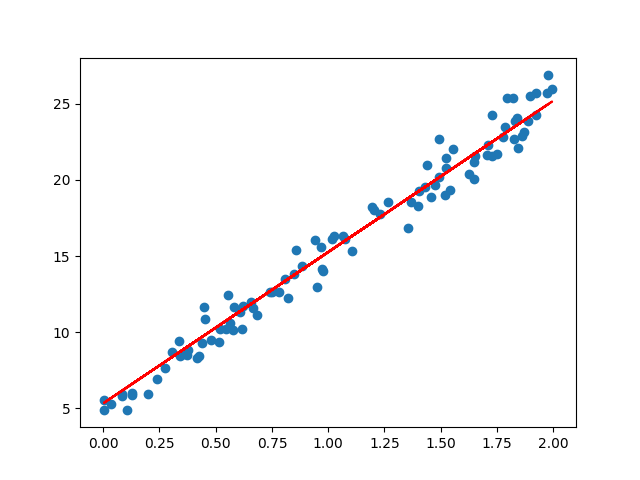
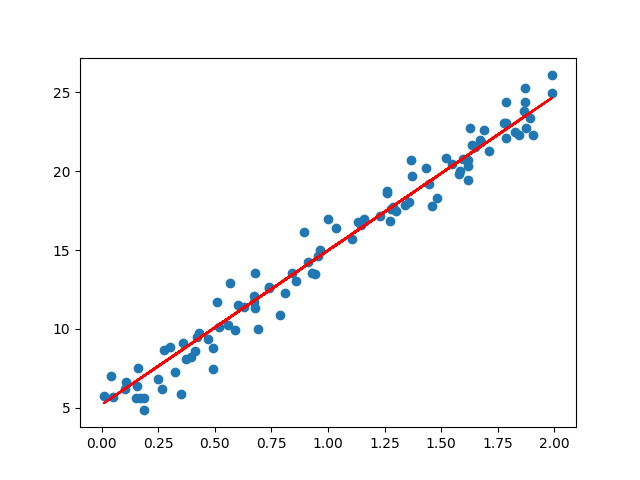
:penguin: Validate test_loss and test_train

diff --git a/main.py b/main.py
@@ -18,7 +18,7 @@ def model(W, feed_dict={}):
     return np.dot(np.Placeholder(x=feed_dict['x']), np.Variable(W=W))
 
 def known_model(feed_dict={}):
-    return np.dot(np.Placeholder(x=feed_dict['x']), np.Constant([2, 3]))
+    return np.dot(np.Placeholder(x=feed_dict['x']), np.Constant([[2],[3]]))
 
 # def mse(feed_dict={}):
     # diff = np.subtract(np.Placeholder(predicted_y=feed_dict['predicted_y']), np.Placeholder(true_y=feed_dict['true_y']))
@@ -73,36 +73,32 @@ def test_known_model():
     print(grad(known_model, 'x')(feed_dict={'x': x}))
 
 def test_loss():
-    data_size = 10
-    x = np.linspace(-7, 7, data_size)
-    x = _np.c_[_np.ones(data_size), x]
-    noise = _np.random.random((data_size))
-    theta = _np.array([2, 5])
-    y = _np.dot(x, theta) + noise
-    predict = value(known_model)(feed_dict={'x': x})
+    data_size = 100
+    X = 2 * _np.random.rand(data_size,1)
+    aug_X = _np.c_[_np.ones(data_size), X]
+    theta = _np.array([[5], [10]])
+    Y = aug_X @ theta + _np.random.randn(data_size,1)
+    predict = value(known_model)(feed_dict={'x': aug_X})
     print(predict)
-    v, l = value_and_grad(mse, 'predicted_y')(feed_dict={'predicted_y': predict, 'true_y': y})
+    v, l = value_and_grad(mse, 'predicted_y')(feed_dict={'predicted_y': predict, 'true_y': Y})
     print(v, l)
 
 def test_train():
-    data_size = 10
-    x = np.linspace(-7, 7, data_size)
-    x = _np.c_[_np.ones(data_size), x]
-    
-    noise = _np.random.random((data_size))
-    theta = _np.array([2, 5])
-    y = _np.dot(x, theta) + noise
-    y = y[:, None]
+    data_size = 100
+    X = 2 * _np.random.rand(data_size,1)
+    aug_X = _np.c_[_np.ones(data_size), X]
+    theta = _np.array([[5], [10]])
+    Y = aug_X @ theta + _np.random.randn(data_size,1)
 
     W = _np.random.random((2, 1))    
-    predicted_y, grad_value= value_and_grad(model)(W=W, feed_dict={'x': x})
-    loss_grad = grad(mse, 'predicted_y')(feed_dict={'predicted_y': predicted_y, 'true_y': y})
-    print(predicted_y.shape, y.shape, x.shape)
-    print(np.array_equal(loss_grad, predicted_y - y))
-    print(np.array_equal(x.T, grad_value['W']))
+    predicted_y, grad_value= value_and_grad(model)(W=W, feed_dict={'x': aug_X})
+    loss_grad = grad(mse, 'predicted_y')(feed_dict={'predicted_y': predicted_y, 'true_y': Y})
+    print(predicted_y.shape, Y.shape, X.shape)
+    print(np.array_equal(loss_grad, predicted_y - Y))
+    print(np.array_equal(aug_X.T, grad_value['W']))
     
 
 if __name__ == "__main__":
     # print(grad(test2)(x=1, y=2, z=0))
     # print(grad(test)(z=2, y=-4, x=3, w=-1))
-    train_model()
+    test_train()
